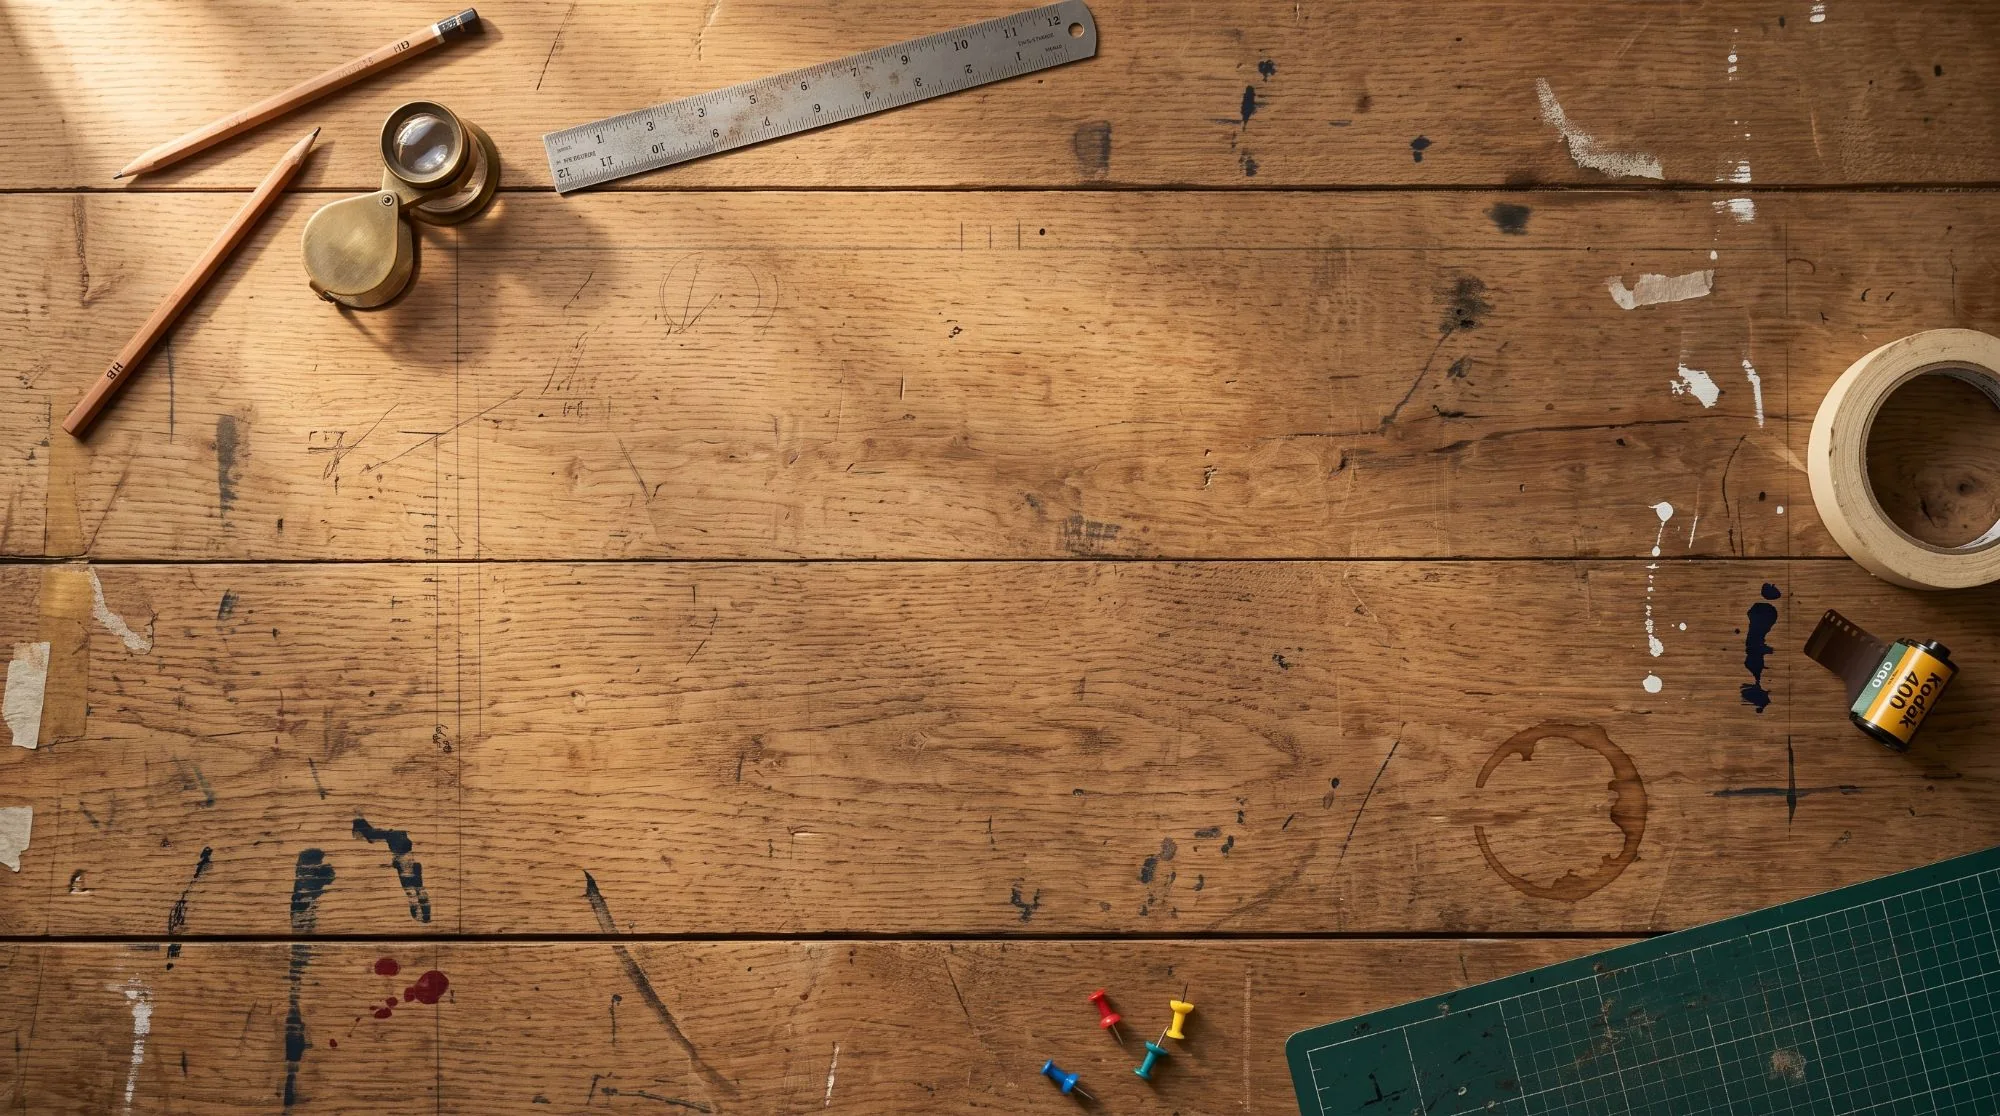
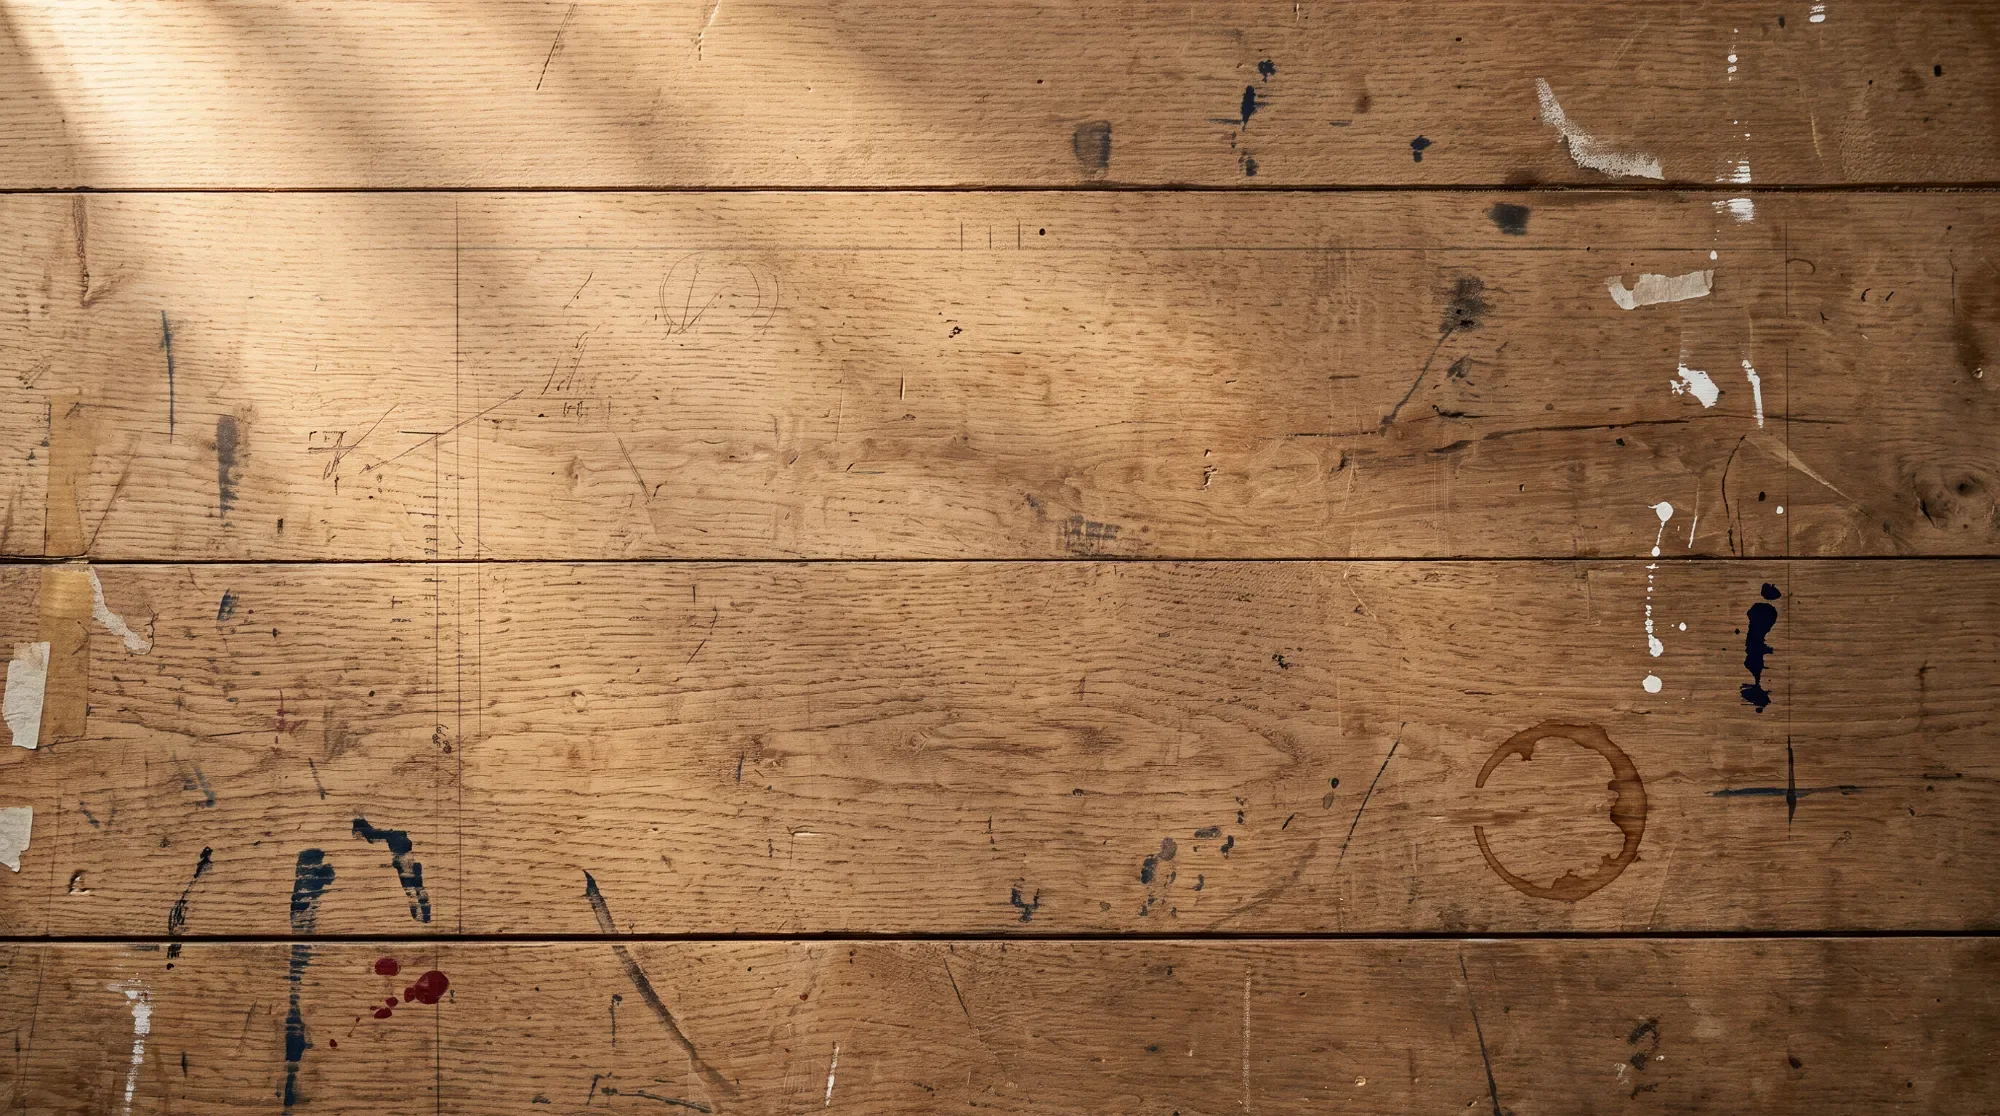
Studio table: empty tables, the painted-in tools become props, Marley at real scale
New empty day and night tables (no tools painted in); the pencils and
loupe, ruler, push pins, tape roll, film canister and cutting mat are
now their own pieces, placed exactly where they were and arriving like
the rest. Marley is sized against the ruler (her head about 13 in).

Claude-Session: https://claude.ai/code/session_0195hiXiVZY5DpQ2CCYEr2vL

diff --git a/studio/table/table.js b/studio/table/table.js
@@ -16,8 +16,14 @@
 
   // x, y = centre; w = width; rot in degrees; how = roll | slide | drop | gentle; from = the edge it comes in over
   var PROPS = [
+    { id: 'pencils', src: 'pencils', x: 279, y: 223, w: 444, rot: 0, how: 'slide', from: 'left' },
+    { id: 'ruler', src: 'ruler', x: 819, y: 97, w: 557, rot: 0, how: 'slide', from: 'top' },
+    { id: 'tape', src: 'tape', x: 1902, y: 459, w: 191, rot: 0, how: 'roll', from: 'right' },
+    { id: 'canister', src: 'canister', x: 1881, y: 681, w: 154, rot: 0, how: 'roll', from: 'right' },
+    { id: 'mat', src: 'mat', x: 1641, y: 980, w: 717, rot: 0, how: 'slide', from: 'right' },
+    { id: 'pins', src: 'pins', x: 1118, y: 1039, w: 152, rot: 0, how: 'drop' },
     { id: 'panel', src: ['panel-off', 'panel-on'], x: 1700, y: 610, w: 112, rot: 0, how: 'drop', fixed: true },
-    { id: 'contact', src: 'contact', x: 1765, y: 175, w: 360, rot: 7, how: 'slide', from: 'top' },
+    { id: 'contact', src: 'contact', x: 1800, y: 175, w: 330, rot: 7, how: 'slide', from: 'top' },
     { id: 'resin', src: 'resin', x: 215, y: 445, w: 175, rot: -8, how: 'slide', from: 'left' },
     { id: 'cone', src: 'cone', x: 1205, y: 330, w: 140, rot: 0, how: 'roll', from: 'top' },
     { id: 'jar', src: ['jar-off', 'jar-on'], x: 245, y: 655, w: 165, rot: 0, how: 'gentle', from: 'left' },
@@ -30,6 +36,8 @@
   ];
   // the header is the top strip of the table (y 0 to about 360): fewer things, kept to that band
   if (HEADER) PROPS = [
+    { id: 'pencils', src: 'pencils', x: 279, y: 223, w: 444, rot: 0, how: 'slide', from: 'left' },
+    { id: 'ruler', src: 'ruler', x: 819, y: 97, w: 557, rot: 0, how: 'slide', from: 'top' },
     { id: 'panel', src: ['panel-off', 'panel-on'], x: 1585, y: 300, w: 86, rot: 0, how: 'drop', fixed: true },
     { id: 'contact', src: 'contact', x: 1800, y: 135, w: 300, rot: 7, how: 'slide', from: 'top' },
     { id: 'carnelians', src: 'carnelians', x: 800, y: 300, w: 95, rot: 12, how: 'drop' },
@@ -189,12 +197,12 @@
     marleyOut = true;
     var isNight = T.classList.contains('night');
     // (the resting pose comes back once its clean cut-out is in)
-    var k = HEADER ? .72 : 1;
+    var k = 1.55;   // real scale against the ruler (12 in = 557 units): her head and ears are about 600 wide
     var pose = isNight ? { src: 'marley-sleep', w: 560 * k, ratio: 357 / 640, show: 1 }
-      : { src: 'marley-look', w: 390 * k, ratio: 635 / 640, show: .62 };
+      : { src: 'marley-look', w: 390 * k, ratio: 635 / 640, show: HEADER ? .5 : .62 };
     var el = document.createElement('div'); el.className = 'prop marley';
     el.appendChild(img(pose.src));
-    var h = pose.w * pose.ratio, x = 1330;
+    var h = pose.w * pose.ratio, x = 1345;
     el.style.left = ((x - pose.w / 2) / W * 100) + '%';
     el.style.top = ((-h * (1 - pose.show)) / H * 100) + '%';
     el.style.width = (pose.w / W * 100) + '%';

diff --git a/studio/table/index.html b/studio/table/index.html
@@ -7,7 +7,7 @@
 <title>Studio table · test</title>
 <link rel="icon" href="/favicon.svg?v=2" type="image/svg+xml">
 <link rel="stylesheet" href="https://fonts.googleapis.com/css2?family=Nunito:wght@600;800&display=swap">
-<link rel="stylesheet" href="table.css?v=7">
+<link rel="stylesheet" href="table.css?v=8">
 </head>
 <body class="table-page">
 <main>
@@ -29,6 +29,6 @@
   </nav>
   <p class="note">A test of the Studio's work table: props arrive on their own, a hand takes them away, your photos land as prints, and the green lamp lights when an upgrade comes back.</p>
 </main>
-<script src="table.js?v=6"></script>
+<script src="table.js?v=7"></script>
 </body>
 </html>

diff --git a/studio/index.php b/studio/index.php
@@ -35,7 +35,7 @@ $in = studio_logged_in();
 <link rel="preconnect" href="https://fonts.googleapis.com">
 <link rel="stylesheet" href="https://fonts.googleapis.com/css2?family=Nunito:wght@600;800&display=swap">
 <link rel="stylesheet" href="assets/studio.css?v=<?= STUDIO_VERSION ?>">
-<link rel="stylesheet" href="table/table.css?v=7">
+<link rel="stylesheet" href="table/table.css?v=8">
 </head>
 <?php if (!$in): ?>
 <body class="login">
@@ -74,7 +74,7 @@ $in = studio_logged_in();
 <div id="toast" role="status" aria-live="polite"></div>
 <script src="assets/track.js?v=<?= STUDIO_VERSION ?>"></script>
 <script src="assets/studio.js?v=<?= STUDIO_VERSION ?>"></script>
-<script src="table/table.js?v=6"></script>
+<script src="table/table.js?v=7"></script>
 </body>
 <?php endif; ?>
 </html>
